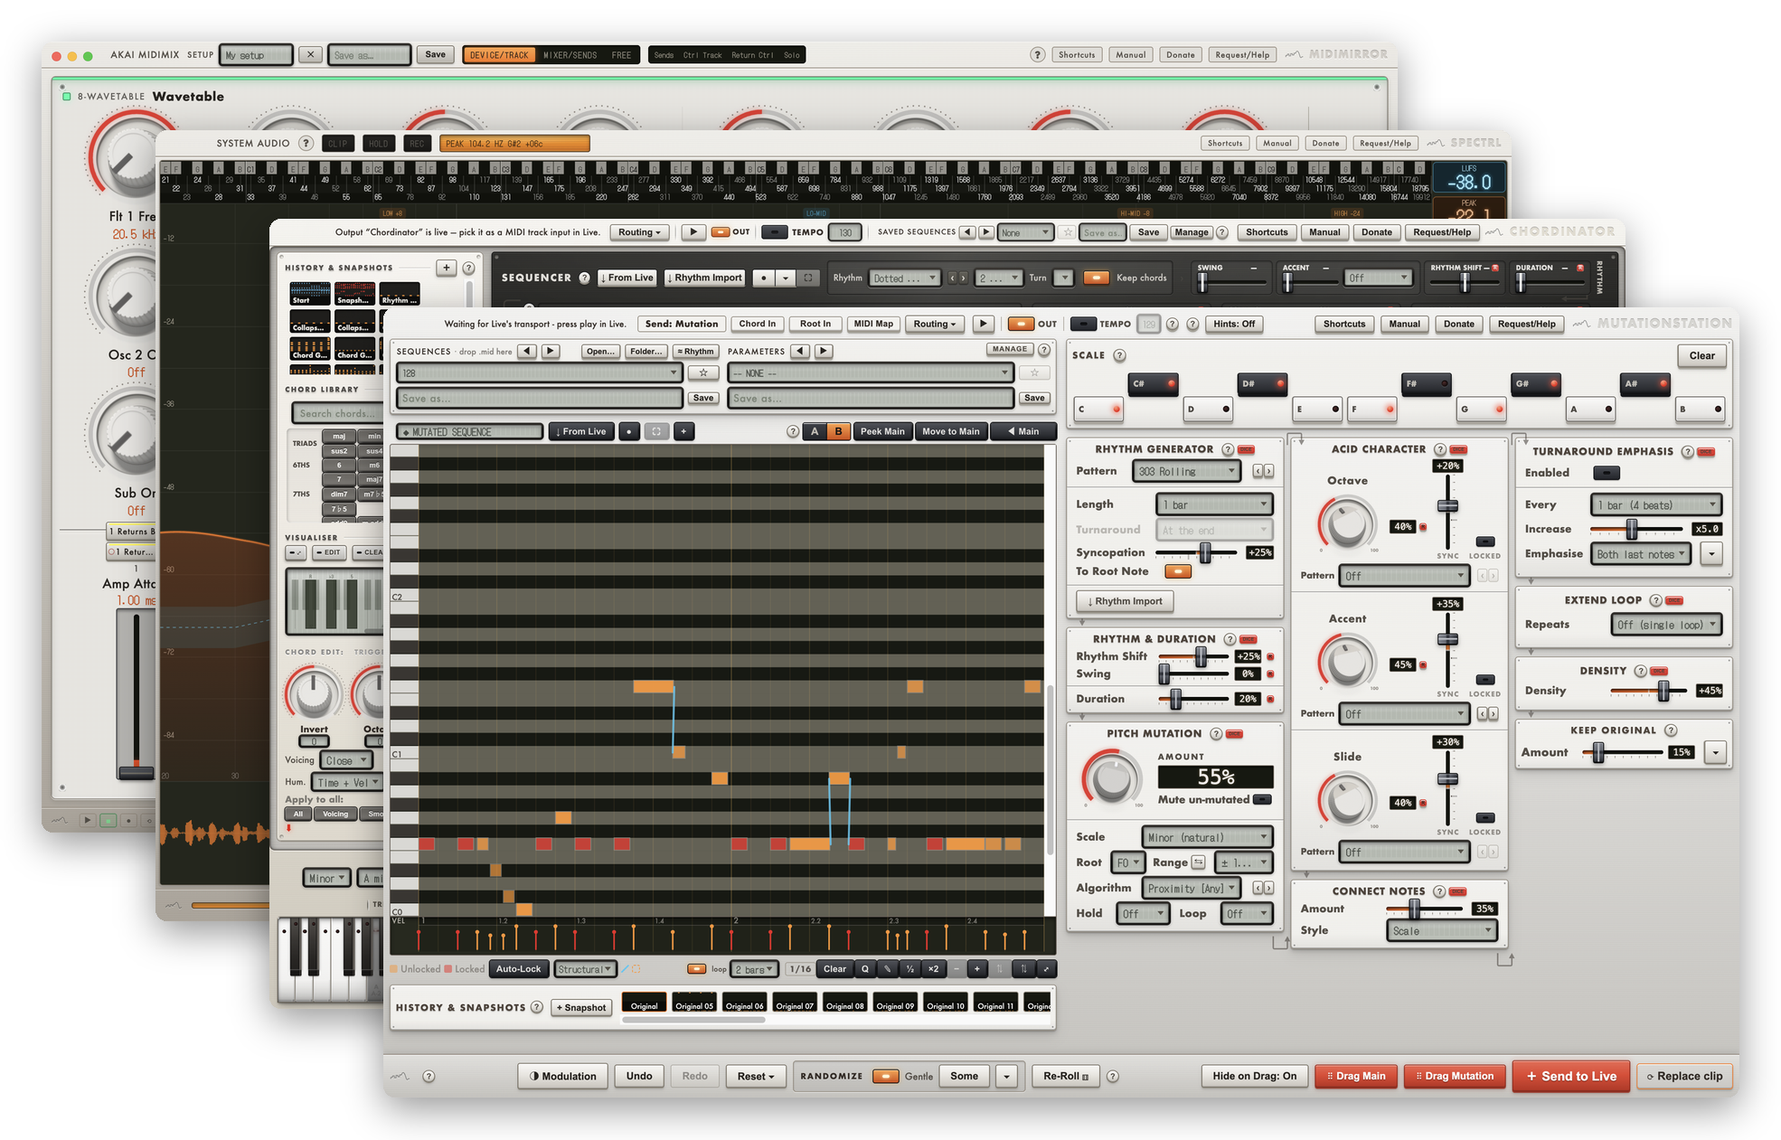
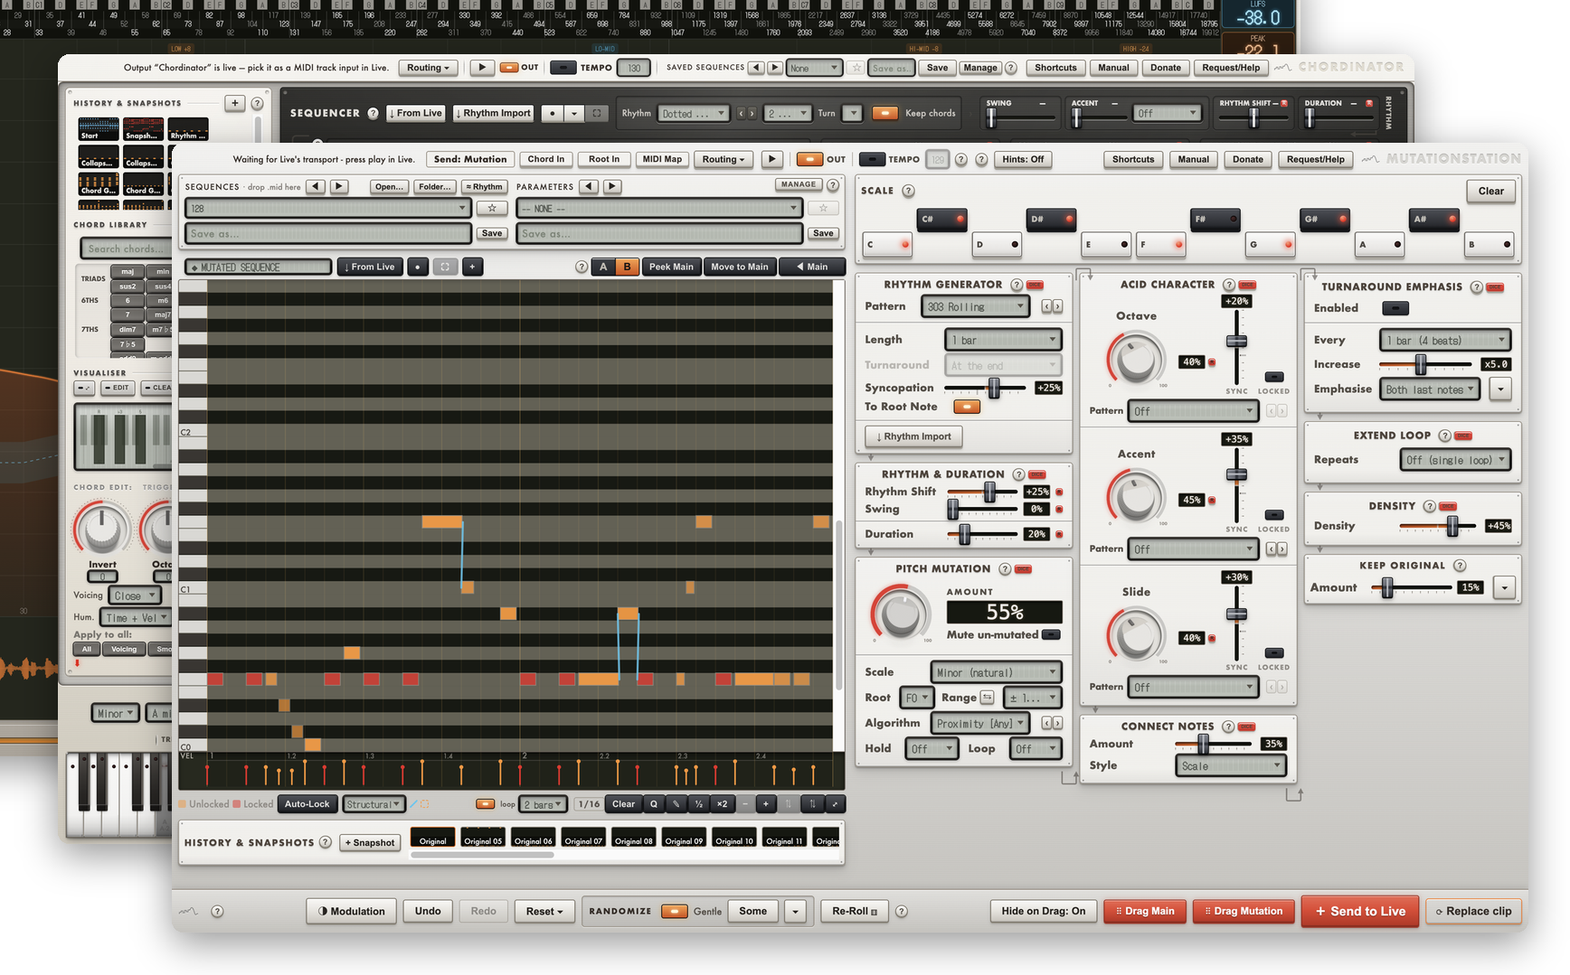
Site review fixes: social cards, licence terms, mobile, hero legibility
From the site review, the items the user picked up:

- Social cards. All six pages had no og: or twitter: tags at all, so every
  link pasted anywhere previewed as a blank box. Absolute URLs against the
  GitHub Pages root, each app page carrying its own screenshot.
- Licence, updates and refunds, as a panel on the homepage and linked from
  every app page's Requirements: three machines, deactivate and regenerate
  when moving Mac, updates automatic or manual by preference, 14 days no
  questions asked per EU consumer law. ⚠ No code implements activation yet;
  the panel carries a comment saying so.
- Version 1.0.0 stated on the four released app pages and in the panel.
- The About copy no longer calls the apps "small", which priced them down
  before the reader saw anything, and now says plainly that they are tools
  rather than something that writes the record for you.
- Homepage favicon is the company mark on a cream tile (assets/favicon.svg),
  not MutationStation's app icon. App pages keep their own icons, which is
  correct there.
- Hero legibility. The cascade rendered every window at under half the size
  its UI is designed for. make-hero.py now crops into the stack (BLEED) so the
  back windows run off the frame, and the hero is allowed wider and taller than
  the text column.
- Mobile. The header wraps instead of colliding at five nav items, buttons are
  full-width targets, background-attachment drops to scroll (it forced a full
[…]

diff --git a/index.html b/index.html
@@ -5,15 +5,40 @@
 <meta name="viewport" content="width=device-width, initial-scale=1" />
 <title>JamWare Audio · Standalone Mac apps for music production</title>
 <meta name="description" content="Standalone Mac apps with the depth of hardware: MutationStation, Chordinator, Spectrl and MidiMirror. Built for Ableton Live, compatible with any DAW." />
-<link rel="icon" href="assets/icons/mutationstation-1024.png" />
+<!-- The company mark, not an app icon: every tab of this site used to be
+     branded MutationStation, which reads as one product rather than five. -->
+<link rel="icon" href="assets/favicon.svg" />
+
+<!-- Social cards. Pasting a link to this site into a DM, a forum or a post
+     previewed as a blank box before 2026-08-13, which is most of how anything
+     gets shared. og:image must be an absolute URL: several scrapers do not
+     resolve relative ones, and the fallback when they fail is nothing at all.
+     If the site ever moves off https://jamwareaudio.github.io/ these five URLs move with it. -->
+<meta property="og:type" content="website" />
+<meta property="og:site_name" content="JamWare Audio" />
+<meta property="og:title" content="JamWare Audio · Standalone Mac apps for music production" />
+<meta property="og:description" content="Standalone Mac apps with the depth of hardware: MutationStation, Chordinator, Spectrl and MidiMirror. Built for Ableton Live, compatible with any DAW." />
+<meta property="og:url" content="https://jamwareaudio.github.io/" />
+<meta property="og:image" content="https://jamwareaudio.github.io/assets/shots/hero-stack.png" />
+<meta name="twitter:card" content="summary_large_image" />
+<meta name="twitter:title" content="JamWare Audio · Standalone Mac apps for music production" />
+<meta name="twitter:description" content="Standalone Mac apps with the depth of hardware: MutationStation, Chordinator, Spectrl and MidiMirror. Built for Ableton Live, compatible with any DAW." />
+<meta name="twitter:image" content="https://jamwareaudio.github.io/assets/shots/hero-stack.png" />
 <link rel="stylesheet" href="styles.css" />
 
 <!-- ==========================================================================
      STORE LINKS — every "Get it" button on this site points at Gumroad, and
      every one of them is written as https://jamwareaudio.gumroad.com/l/<slug>.
-     These are ASSUMED slugs, not confirmed ones. Check them against the real
-     product URLs in your Gumroad dashboard and fix any that differ; they
+
+     The four app slugs (mutationstation, chordinator, spectrl, midimirror) were
+     checked against the live dashboard on 2026-08-13 and are correct. They
      appear here on the cards and once more on each page in apps/.
+
+     ⚠ The two bundle slugs, creative-bundle and toolbox-bundle, are NOT
+     confirmed: those products do not exist on Gumroad yet. Both buttons 404
+     until they are created. Nothing here needs changing if the products are
+     made with these slugs; if they end up named differently, fix them in the
+     #bundles section below.
      ====================================================================== -->
 </head>
 <body>
@@ -27,6 +52,7 @@
     <nav class="site-nav">
       <a href="#products">Products</a>
       <a href="#bundles">Bundles</a>
+      <a href="#licence">Licence</a>
       <a href="#about">About</a>
       <a href="mailto:toastonjam12345@gmail.com">Support</a>
     </nav>
@@ -278,6 +304,44 @@
     </div>
   </section>
 
+  <!-- The three questions anyone asks with a card in their hand, answered on the
+       page rather than buried in a Gumroad receipt: how many machines, what
+       happens on update, and can I get my money back. It sits between the
+       bundles and the About panel deliberately, which is where a reader who has
+       just looked at a price is standing.
+
+       ⚠ The activation flow described here is a promise, and as of 2026-08-13 no
+       code implements it. Nothing in the apps checks a licence, counts machines
+       or deactivates anything. If activation ships in a different shape, this
+       panel is the copy that has to change with it. -->
+  <section class="section wrap" id="licence">
+    <span class="legend">What you get</span>
+    <div class="panel" style="--accent:#5B9E63">
+      <h2 class="panel-head">Licence &middot; updates &middot; refunds</h2>
+      <div class="panel-body">
+        <div class="prose">
+          <p>
+            <strong>Three machines.</strong> One purchase covers up to three Macs,
+            which is a studio machine, a laptop and the one you have not replaced
+            yet. Moving to a new machine does not cost anything: delete the old
+            activation code and generate a fresh one for the new Mac.
+          </p>
+          <p>
+            <strong>Updates, your way.</strong> Every app can check for updates on
+            its own and tell you when one is ready, or stay quiet and leave it to
+            you to check by hand. Set it whichever way you prefer in the app.
+          </p>
+          <p>
+            <strong>14 days, no questions asked.</strong> Refunds follow EU
+            consumer law: if it is not for you, ask within 14 days of purchase and
+            you get your money back. No form to fill in and no reason to give.
+          </p>
+          <p class="legend">All apps are version 1.0.0</p>
+        </div>
+      </div>
+    </div>
+  </section>
+
   <section class="section wrap" id="about">
     <span class="legend">About</span>
     <div class="panel" style="--accent:#E0862C">
@@ -297,8 +361,9 @@
             no app ever has two colours competing to mean "important".
           </p>
           <p>
-            Everything is small, does one job, and stays out of the master chain.
-            Nothing phones home.
+            Each one does a single job properly, stays out of the master chain,
+            and leaves the writing to you. They are tools, not a machine that
+            makes the record for you. Nothing phones home.
           </p>
         </div>
       </div>

diff --git a/styles.css b/styles.css
@@ -242,8 +242,17 @@ a:hover { color: var(--accent); }
 /* The homepage hero shot. Capped in height so a tall dialog screenshot cannot
    push the product list below the fold; the image is anchored to its top so
    the part that sells it stays visible. */
-.hero-shot { padding-bottom: 10px; }
-.hero-shot .screen img { max-height: 560px; width: auto; margin: 0 auto; }
+/* Wider than the 1000px text column, and taller than the panels below it, for
+   one reason: the apps are laid out for a 1600pt window, so every pixel the
+   frame loses comes off legibility until the screenshot is decorative. This is
+   the only element on the site allowed out of the measure. Together with the
+   BLEED crop in make-hero.py it puts the front window back at a size where the
+   piano roll reads as a piano roll. */
+.wrap.hero-shot { max-width: 1180px; padding-bottom: 10px; }
+/* max-width before width:auto, in that order of importance: width:auto lets the
+   height cap drive the size, which on a phone resolved to a ~1000px image in a
+   371px viewport and gave the whole page a horizontal scrollbar. */
+.hero-shot .screen img { max-height: 620px; max-width: 100%; width: auto; margin: 0 auto; }
 .caption { display: block; margin: 10px 2px 0; }
 
 /* ========================================================= PRODUCT CARDS */
@@ -573,12 +582,41 @@ a.btn.gumroad-button:active {
 
 /* =============================================================== MOBILE */
 
+/* ---- Phones ---------------------------------------------------------------
+
+   This used to be four declarations, on the assumption that a one-column layout
+   degrades gracefully on its own. Mostly it does; these are the places where it
+   does not, each one checked at 390px:
+
+     - the header is a sticky 58px bar carrying a wordmark and five nav items,
+       which collide long before 390px. The nav wraps under the brand and the
+       bar stops being a fixed height rather than squeezing the type further;
+     - background-attachment: fixed forces iOS Safari to repaint the whole
+       gradient on every scroll frame, which is the single most expensive thing
+       on this page on a phone and buys nothing once the viewport is narrower
+       than the panel it is meant to unify. Scroll it with the page instead;
+     - the bundle icon rows and the buy buttons are laid out for a mouse. Both
+       get full-width targets rather than 13px type in a 9px-tall pill.       */
 @media (max-width: 720px) {
   .product .panel-body { grid-template-columns: 64px 1fr; gap: 16px; }
   .product .icon { width: 64px; height: 64px; border-radius: 13px; }
   .two-col { grid-template-columns: 1fr; }
-  .site-nav { gap: 14px; font-size: 13px; }
   .hero { padding: 48px 0 36px; }
+
+  body { background-attachment: scroll; }
+  .wrap { padding: 0 16px; }
+  .section { padding: 28px 0; }
+
+  .site-header .wrap {
+    height: auto; min-height: 58px;
+    flex-wrap: wrap; gap: 8px 16px; padding-top: 10px; padding-bottom: 10px;
+  }
+  .site-nav { margin-left: 0; width: 100%; gap: 16px; font-size: 13px; flex-wrap: wrap; }
+  .wordmark { font-size: 15px; }
+
+  .btn { padding: 11px 16px; }
+  .btn-row .btn { flex: 1 1 100%; justify-content: center; }
+  .btn-row .price, .btn-row .status { flex: 1 1 100%; }
 }
 
 /* The faceplate is a physical object with one lighting direction; there is no

diff --git a/apps/chordinator.html b/apps/chordinator.html
@@ -6,6 +6,22 @@
 <title>Chordinator · JamWare Audio</title>
 <meta name="description" content="Play chords you don't know how to voice. A whole chord under one key, laid out so there is no wrong note on the keybed, then build the sequence out with rhythm patterns, groove, chord suggestions and modulation lanes." />
 <link rel="icon" href="../assets/icons/chordinator-1024.png" />
+
+<!-- Social cards. Pasting a link to this site into a DM, a forum or a post
+     previewed as a blank box before 2026-08-13, which is most of how anything
+     gets shared. og:image must be an absolute URL: several scrapers do not
+     resolve relative ones, and the fallback when they fail is nothing at all.
+     If the site ever moves off https://jamwareaudio.github.io/ these five URLs move with it. -->
+<meta property="og:type" content="website" />
+<meta property="og:site_name" content="JamWare Audio" />
+<meta property="og:title" content="Chordinator · JamWare Audio" />
+<meta property="og:description" content="Play chords you don't know how to voice. A whole chord under one key, laid out so there is no wrong note on the keybed, then build the sequence out with rhythm patterns, groove, chord suggestions and modulation lanes." />
+<meta property="og:url" content="https://jamwareaudio.github.io/apps/chordinator.html" />
+<meta property="og:image" content="https://jamwareaudio.github.io/assets/shots/chordinator.png" />
+<meta name="twitter:card" content="summary_large_image" />
+<meta name="twitter:title" content="Chordinator · JamWare Audio" />
+<meta name="twitter:description" content="Play chords you don't know how to voice. A whole chord under one key, laid out so there is no wrong note on the keybed, then build the sequence out with rhythm patterns, groove, chord suggestions and modulation lanes." />
+<meta name="twitter:image" content="https://jamwareaudio.github.io/assets/shots/chordinator.png" />
 <link rel="stylesheet" href="../styles.css" />
 <style>:root { --accent: #E0862C; }</style>
 </head>
@@ -414,6 +430,8 @@
                 Gatekeeper will block it: right-click the app →
                 <strong>Open</strong> → <strong>Open</strong> again. Once only.
               </p>
+              <p class="legend">Version 1.0.0</p>
+              <p><a href="../index.html#licence">Licence, updates and refunds</a></p>
             </div>
           </div>
         </div>

diff --git a/apps/midimirror.html b/apps/midimirror.html
@@ -6,6 +6,22 @@
 <title>MidiMirror · JamWare Audio</title>
 <meta name="description" content="Build what every knob on your MIDI controller does in Ableton Live, without writing Python. Custom modes, combos and holds, generated into a real Remote Script, with an on-screen mirror that labels every control." />
 <link rel="icon" href="../assets/icons/midimirror-1024.png" />
+
+<!-- Social cards. Pasting a link to this site into a DM, a forum or a post
+     previewed as a blank box before 2026-08-13, which is most of how anything
+     gets shared. og:image must be an absolute URL: several scrapers do not
+     resolve relative ones, and the fallback when they fail is nothing at all.
+     If the site ever moves off https://jamwareaudio.github.io/ these five URLs move with it. -->
+<meta property="og:type" content="website" />
+<meta property="og:site_name" content="JamWare Audio" />
+<meta property="og:title" content="MidiMirror · JamWare Audio" />
+<meta property="og:description" content="Build what every knob on your MIDI controller does in Ableton Live, without writing Python. Custom modes, combos and holds, generated into a real Remote Script, with an on-screen mirror that labels every control." />
+<meta property="og:url" content="https://jamwareaudio.github.io/apps/midimirror.html" />
+<meta property="og:image" content="https://jamwareaudio.github.io/assets/shots/midimirror.png" />
+<meta name="twitter:card" content="summary_large_image" />
+<meta name="twitter:title" content="MidiMirror · JamWare Audio" />
+<meta name="twitter:description" content="Build what every knob on your MIDI controller does in Ableton Live, without writing Python. Custom modes, combos and holds, generated into a real Remote Script, with an on-screen mirror that labels every control." />
+<meta name="twitter:image" content="https://jamwareaudio.github.io/assets/shots/midimirror.png" />
 <link rel="stylesheet" href="../styles.css" />
 <style>:root { --accent: #E05A2C; }</style>
 </head>
@@ -334,6 +350,8 @@
                 learned its addresses and generated a script for it, which
                 the app does for you.
               </p>
+              <p class="legend">Version 1.0.0</p>
+              <p><a href="../index.html#licence">Licence, updates and refunds</a></p>
             </div>
           </div>
         </div>

diff --git a/apps/spectrl.html b/apps/spectrl.html
@@ -6,6 +6,22 @@
 <title>Spectrl · JamWare Audio</title>
 <meta name="description" content="A spectrum analyser, key detector, note visualiser, tonal-balance target and loudness/oscilloscope meter in one lightweight window, listening to everything your Mac is playing." />
 <link rel="icon" href="../assets/icons/spectrl-1024.png" />
+
+<!-- Social cards. Pasting a link to this site into a DM, a forum or a post
+     previewed as a blank box before 2026-08-13, which is most of how anything
+     gets shared. og:image must be an absolute URL: several scrapers do not
+     resolve relative ones, and the fallback when they fail is nothing at all.
+     If the site ever moves off https://jamwareaudio.github.io/ these five URLs move with it. -->
+<meta property="og:type" content="website" />
+<meta property="og:site_name" content="JamWare Audio" />
+<meta property="og:title" content="Spectrl · JamWare Audio" />
+<meta property="og:description" content="A spectrum analyser, key detector, note visualiser, tonal-balance target and loudness/oscilloscope meter in one lightweight window, listening to everything your Mac is playing." />
+<meta property="og:url" content="https://jamwareaudio.github.io/apps/spectrl.html" />
+<meta property="og:image" content="https://jamwareaudio.github.io/assets/shots/spectrl.png" />
+<meta name="twitter:card" content="summary_large_image" />
+<meta name="twitter:title" content="Spectrl · JamWare Audio" />
+<meta name="twitter:description" content="A spectrum analyser, key detector, note visualiser, tonal-balance target and loudness/oscilloscope meter in one lightweight window, listening to everything your Mac is playing." />
+<meta name="twitter:image" content="https://jamwareaudio.github.io/assets/shots/spectrl.png" />
 <link rel="stylesheet" href="../styles.css" />
 <style>:root { --accent: #4A86C5; }</style>
 </head>
@@ -213,6 +229,8 @@
                 On first launch macOS asks for permission to record this computer's
                 audio. Grant it, because without it the screen stays dark and says so.
               </p>
+              <p class="legend">Version 1.0.0</p>
+              <p><a href="../index.html#licence">Licence, updates and refunds</a></p>
             </div>
           </div>
         </div>

diff --git a/apps/mutationstation.html b/apps/mutationstation.html
@@ -6,6 +6,22 @@
 <title>MutationStation · JamWare Audio</title>
 <meta name="description" content="An acid/303 MIDI mutation sequencer for macOS. Feed it a line, get a hundred back, then drag any take straight into your DAW." />
 <link rel="icon" href="../assets/icons/mutationstation-1024.png" />
+
+<!-- Social cards. Pasting a link to this site into a DM, a forum or a post
+     previewed as a blank box before 2026-08-13, which is most of how anything
+     gets shared. og:image must be an absolute URL: several scrapers do not
+     resolve relative ones, and the fallback when they fail is nothing at all.
+     If the site ever moves off https://jamwareaudio.github.io/ these five URLs move with it. -->
+<meta property="og:type" content="website" />
+<meta property="og:site_name" content="JamWare Audio" />
+<meta property="og:title" content="MutationStation · JamWare Audio" />
+<meta property="og:description" content="An acid/303 MIDI mutation sequencer for macOS. Feed it a line, get a hundred back, then drag any take straight into your DAW." />
+<meta property="og:url" content="https://jamwareaudio.github.io/apps/mutationstation.html" />
+<meta property="og:image" content="https://jamwareaudio.github.io/assets/shots/mutationstation.png" />
+<meta name="twitter:card" content="summary_large_image" />
+<meta name="twitter:title" content="MutationStation · JamWare Audio" />
+<meta name="twitter:description" content="An acid/303 MIDI mutation sequencer for macOS. Feed it a line, get a hundred back, then drag any take straight into your DAW." />
+<meta name="twitter:image" content="https://jamwareaudio.github.io/assets/shots/mutationstation.png" />
 <link rel="stylesheet" href="../styles.css" />
 <style>:root { --accent: #D13A2C; }</style>
 </head>
@@ -335,6 +351,8 @@
                 macOS Gatekeeper will block it: right-click the app →
                 <strong>Open</strong> → <strong>Open</strong> again. Once only.
               </p>
+              <p class="legend">Version 1.0.0</p>
+              <p><a href="../index.html#licence">Licence, updates and refunds</a></p>
             </div>
           </div>
         </div>

diff --git a/apps/arranger.html b/apps/arranger.html
@@ -6,6 +6,22 @@
 <title>Arranger · JamWare Audio</title>
 <meta name="description" content="An Ableton Live extension that lays your Session clips out across the Arrangement timeline from a section template." />
 <link rel="icon" href="../assets/icons/arranger-1024.png" />
+
+<!-- Social cards. Pasting a link to this site into a DM, a forum or a post
+     previewed as a blank box before 2026-08-13, which is most of how anything
+     gets shared. og:image must be an absolute URL: several scrapers do not
+     resolve relative ones, and the fallback when they fail is nothing at all.
+     If the site ever moves off https://jamwareaudio.github.io/ these five URLs move with it. -->
+<meta property="og:type" content="website" />
+<meta property="og:site_name" content="JamWare Audio" />
+<meta property="og:title" content="Arranger · JamWare Audio" />
+<meta property="og:description" content="An Ableton Live extension that lays your Session clips out across the Arrangement timeline from a section template." />
+<meta property="og:url" content="https://jamwareaudio.github.io/apps/arranger.html" />
+<meta property="og:image" content="https://jamwareaudio.github.io/assets/shots/hero-stack.png" />
+<meta name="twitter:card" content="summary_large_image" />
+<meta name="twitter:title" content="Arranger · JamWare Audio" />
+<meta name="twitter:description" content="An Ableton Live extension that lays your Session clips out across the Arrangement timeline from a section template." />
+<meta name="twitter:image" content="https://jamwareaudio.github.io/assets/shots/hero-stack.png" />
 <link rel="stylesheet" href="../styles.css" />
 <style>:root { --accent: #5B9E63; }</style>
 </head>

diff --git a/make-hero.py b/make-hero.py
@@ -86,5 +86,20 @@ for i, win in enumerate(windows):
     layer.paste(win, (x, y), win)
     canvas = Image.alpha_composite(canvas, layer)
 
+# ---- Crop the cascade into the frame ---------------------------------------
+# The full stack was 1970px wide with the front window taking 76% of it, which
+# at the site's 1000px content width rendered every window at under half the
+# size its UI was designed for. The apps are laid out for a 1600pt window; a
+# hero nobody can read is a hero that only says "some software exists".
+#
+# So the stack is cropped into rather than shrunk to fit: the back windows run
+# off the top-left edge of the frame the way windows run off the edge of a real
+# desktop, and the front two, which are the ones the site is actually arguing
+# for, get the pixels. Raise BLEED to push more of the range out of frame and
+# make the front window bigger; drop it to show more of the stack.
+BLEED = 0.62
+canvas = canvas.crop((round(span_x * BLEED), round(span_y * BLEED),
+                      canvas_w, canvas_h))
+
 canvas.save(OUT)
 print(f"wrote {OUT} {canvas.size}")
